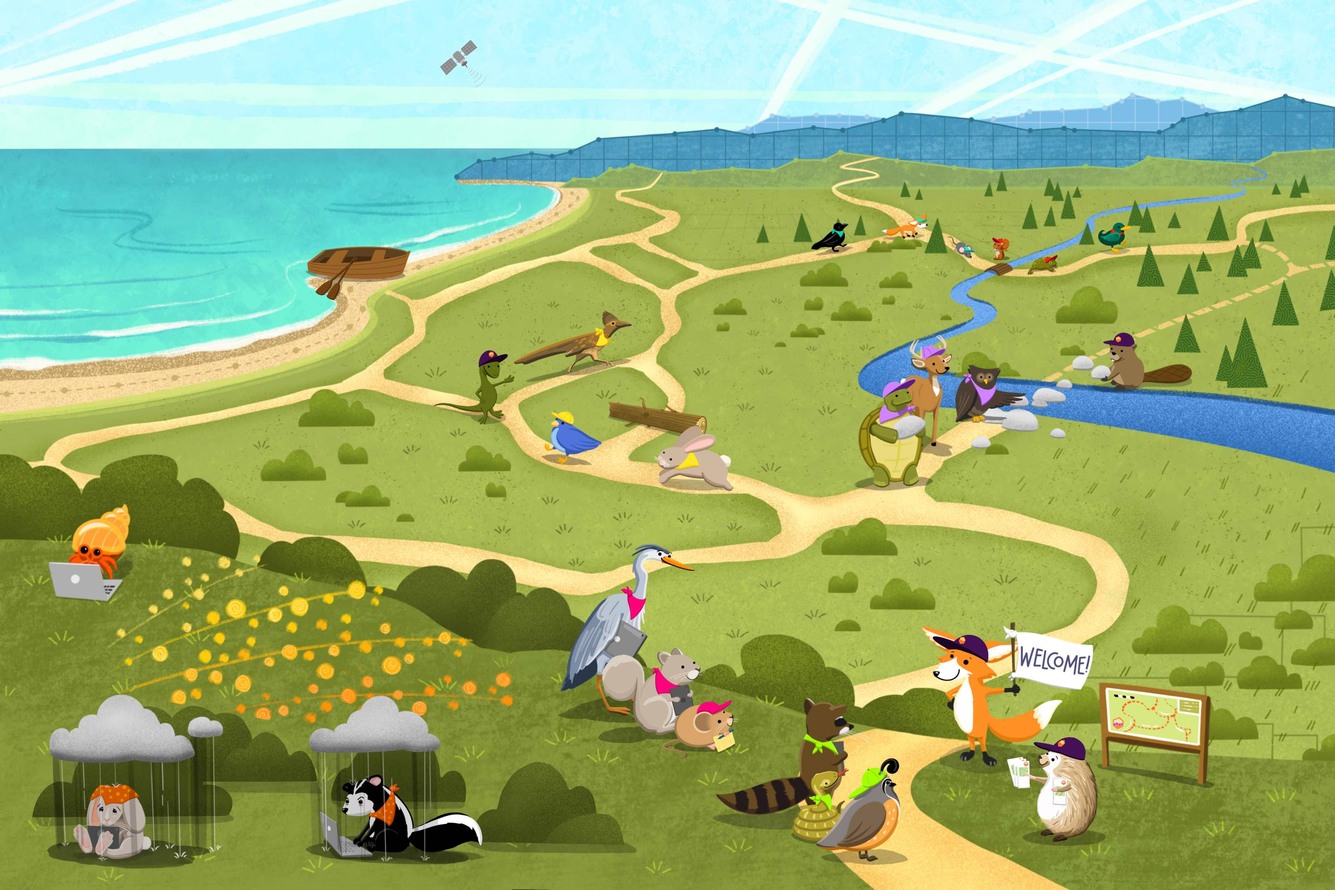
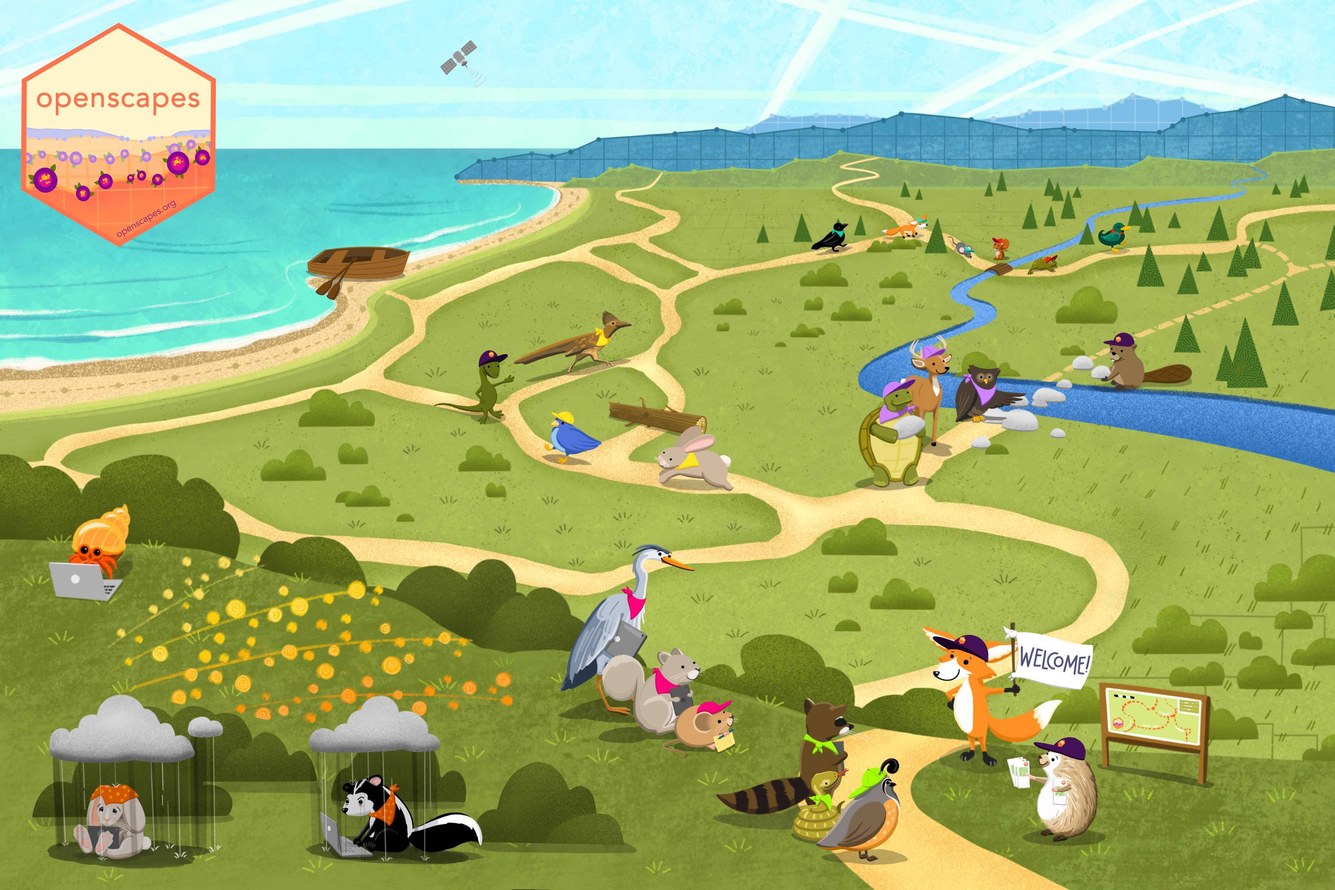
Fix foxes

Changed region(s): [[0.0, 0.0312, 0.1867, 0.2812]]

diff --git a/index-speaker.html b/index-speaker.html
@@ -896,9 +896,8 @@
           display:block!important;
       }</style></aside>
 </section>
-<section id="section" class="slide level2" data-background-image="images/horst_openscapes_champions.jpg" data-fig-alt="Illustration of a grassy field by an ocean, there’s a river that meanders from the midground to the background on the right hand side. There are mountains in the background. The Openscapes hex logo is in the top left hand corner. In the foreground there are many animals: hermit crab working alone on a laptop, a sad rabbit on a laptop under a raincloud, a frustrated skunk on a laptop under a raincloud. Just over a bush is another group of animals: a fox with a welcome sign stands with a hedgehog holding map brochures In front of a larger park map. The fox and hedgehog are in front of a group of animals: a heron, a squirrel, a mouse holding a notebook, a raccoon, a snake, and a quail. In the midground, there’s a turtle, deer, owl and beaver by the river that has stepping stone rocks across. A roadrunner, lizard, blue bird, and rabbit, are walking down a path together, one of the other paths is blocked by a log. There’s a rowboat on the edge of the water. In the background, a duck, turtle, red squirrel, fox, and raven are walking single file over a wooden bridge that crosses the river. Most of the animals have coloured bandanas tied around their necks and a few are wearing hats. Up in the sky, there’s a satellite.">
+<section id="section" class="slide level2" data-background-color="#0F1620" data-background-image="images/horst_openscapes_champions.jpg" data-background-size="contain" data-background-position="bottom right" data-fig-alt="Illustration of a grassy field by an ocean, there’s a river that meanders from the midground to the background on the right hand side. There are mountains in the background. The Openscapes hex logo is in the top left hand corner. In the foreground there are many animals: hermit crab working alone on a laptop, a sad rabbit on a laptop under a raincloud, a frustrated skunk on a laptop under a raincloud. Just over a bush is another group of animals: a fox with a welcome sign stands with a hedgehog holding map brochures In front of a larger park map. The fox and hedgehog are in front of a group of animals: a heron, a squirrel, a mouse holding a notebook, a raccoon, a snake, and a quail. In the midground, there’s a turtle, deer, owl and beaver by the river that has stepping stone rocks across. A roadrunner, lizard, blue bird, and rabbit, are walking down a path together, one of the other paths is blocked by a log. There’s a rowboat on the edge of the water. In the background, a duck, turtle, red squirrel, fox, and raven are walking single file over a wooden bridge that crosses the river. Most of the animals have coloured bandanas tied around their necks and a few are wearing hats. Up in the sky, there’s a satellite. Overlaid on the image is the OpenScapes hex logo.">
 <h2></h2>
-<p><img data-src="images/openscapes_hex.png" class="absolute" style="top: 0px; width: 15%; "></p>
 <aside class="notes">
 <p>Openscapes is a movement and a community that I launched in 2018 and have built together with my partner Erin Robinson.</p>
 <p>Our flagship activity is mentoring research teams in open practices that can increase inclusive collaboration and accelerate data-driven solutions.</p>

diff --git a/index.html b/index.html
@@ -896,9 +896,8 @@
           display:block!important;
       }</style></aside>
 </section>
-<section id="section" class="slide level2" data-background-image="images/horst_openscapes_champions.jpg" data-fig-alt="Illustration of a grassy field by an ocean, there’s a river that meanders from the midground to the background on the right hand side. There are mountains in the background. The Openscapes hex logo is in the top left hand corner. In the foreground there are many animals: hermit crab working alone on a laptop, a sad rabbit on a laptop under a raincloud, a frustrated skunk on a laptop under a raincloud. Just over a bush is another group of animals: a fox with a welcome sign stands with a hedgehog holding map brochures In front of a larger park map. The fox and hedgehog are in front of a group of animals: a heron, a squirrel, a mouse holding a notebook, a raccoon, a snake, and a quail. In the midground, there’s a turtle, deer, owl and beaver by the river that has stepping stone rocks across. A roadrunner, lizard, blue bird, and rabbit, are walking down a path together, one of the other paths is blocked by a log. There’s a rowboat on the edge of the water. In the background, a duck, turtle, red squirrel, fox, and raven are walking single file over a wooden bridge that crosses the river. Most of the animals have coloured bandanas tied around their necks and a few are wearing hats. Up in the sky, there’s a satellite.">
+<section id="section" class="slide level2" data-background-color="#0F1620" data-background-image="images/horst_openscapes_champions.jpg" data-background-size="contain" data-background-position="bottom right" data-fig-alt="Illustration of a grassy field by an ocean, there’s a river that meanders from the midground to the background on the right hand side. There are mountains in the background. The Openscapes hex logo is in the top left hand corner. In the foreground there are many animals: hermit crab working alone on a laptop, a sad rabbit on a laptop under a raincloud, a frustrated skunk on a laptop under a raincloud. Just over a bush is another group of animals: a fox with a welcome sign stands with a hedgehog holding map brochures In front of a larger park map. The fox and hedgehog are in front of a group of animals: a heron, a squirrel, a mouse holding a notebook, a raccoon, a snake, and a quail. In the midground, there’s a turtle, deer, owl and beaver by the river that has stepping stone rocks across. A roadrunner, lizard, blue bird, and rabbit, are walking down a path together, one of the other paths is blocked by a log. There’s a rowboat on the edge of the water. In the background, a duck, turtle, red squirrel, fox, and raven are walking single file over a wooden bridge that crosses the river. Most of the animals have coloured bandanas tied around their necks and a few are wearing hats. Up in the sky, there’s a satellite. Overlaid on the image is the OpenScapes hex logo.">
 <h2></h2>
-<p><img data-src="images/openscapes_hex.png" class="absolute" style="top: 0px; width: 15%; "></p>
 <aside class="notes">
 <p>Openscapes is a movement and a community that I launched in 2018 and have built together with my partner Erin Robinson.</p>
 <p>Our flagship activity is mentoring research teams in open practices that can increase inclusive collaboration and accelerate data-driven solutions.</p>
